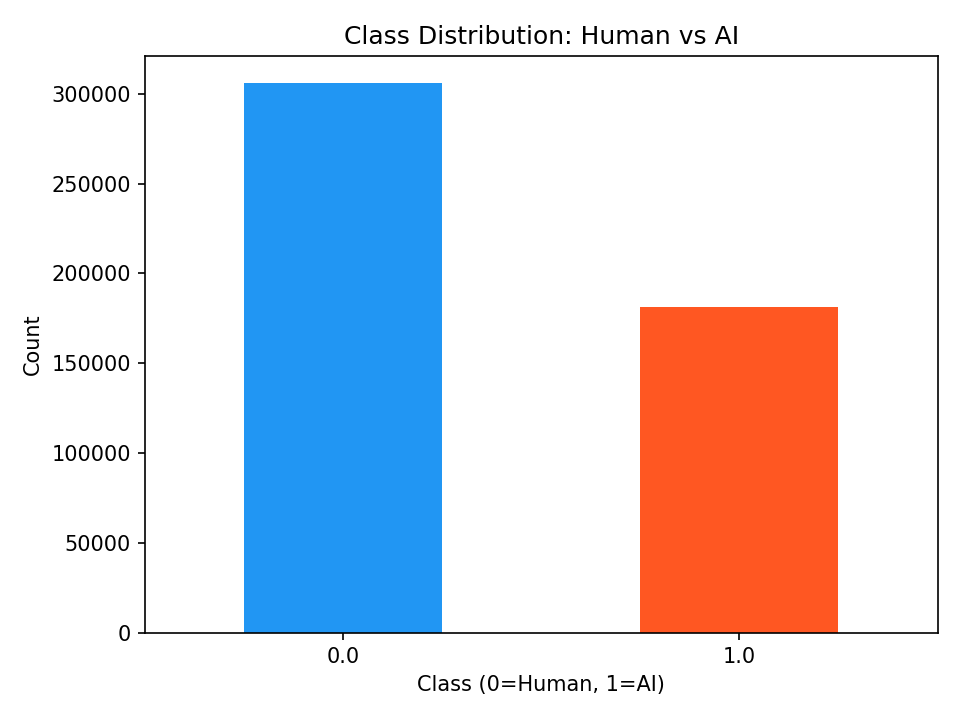
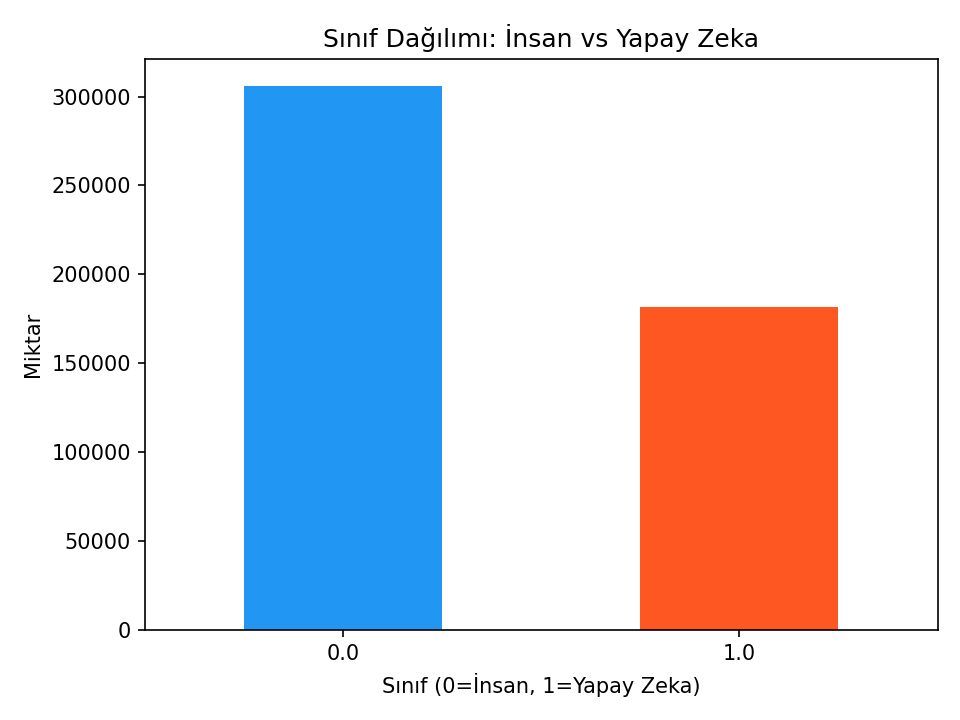
feat: Cleanup redundant analysis outputs & fully localize documentation

diff --git a/src/evaluate_model.py b/src/evaluate_model.py
@@ -119,20 +119,22 @@ def perform_error_analysis(y_test, y_pred, texts_test, model_name="Model", save_
     # False Negatives: Gerçek AI (1), Tahmin Human (0)
     fns = errors[(errors['Gerçek_Sınıf'] == 1.0) & (errors['Tahmin_Edilen'] == 0.0)]
     
-    if save_path:
-        with open(save_path, 'w', encoding='utf-8') as f:
-            f.write(f"=== ERROR ANALYSIS: {model_name} ===\n")
-            f.write(f"Toplam Hata: {len(errors)}\n")
-            f.write(f"False Positives (İnsan yazmış ama model AI sanmış): {len(fps)}\n")
-            f.write(f"False Negatives (AI yazmış ama model İnsan sanmış): {len(fns)}\n\n")
-            
-            f.write("--- ÖRNEK 3 FALSE POSITIVE ---\n")
-            for idx, row in fps.head(3).iterrows():
-                f.write(f"- {row['Metin'][:500]}...\n\n")
-                
-            f.write("--- ÖRNEK 3 FALSE NEGATIVE ---\n")
-            for idx, row in fns.head(3).iterrows():
-                f.write(f"- {row['Metin'][:500]}...\n\n")
-                
-        print(f"  → Error analysis raporu kaydedildi: {save_path}")
-
+    # if save_path:
+    #     with open(save_path, 'w', encoding='utf-8') as f:
+    #         f.write(f"=== ERROR ANALYSIS: {model_name} ===\n")
+    #         f.write(f"Toplam Hata: {len(errors)}\n")
+    #         f.write(f"False Positives (İnsan yazmış ama model AI sanmış): {len(fps)}\n")
+    #         f.write(f"False Negatives (AI yazmış ama model İnsan sanmış): {len(fns)}\n\n")
+    #         
+    #         f.write("--- ÖRNEK 3 FALSE POSITIVE ---\n")
+    #         for idx, row in fps.head(3).iterrows():
+    #             f.write(f"- {row['Metin'][:500]}...\n\n")
+    #             
+    #         f.write("--- ÖRNEK 3 FALSE NEGATIVE ---\n")
+    #         for idx, row in fns.head(3).iterrows():
+    #             f.write(f"- {row['Metin'][:500]}...\n\n")
+    #             
+    #     print(f"  → Error analysis raporu kaydedildi: {save_path}")
+    # We will log the error analysis findings manually in our perfectly translated error_analysis.txt
+    # Instead of generating raw english text dumps every run, which pollutes the results folder.
+    print(f"  -> Error analysis raporu Türkçe olarak 'results/error_analysis.txt' dosyasında mevcuttur.")
